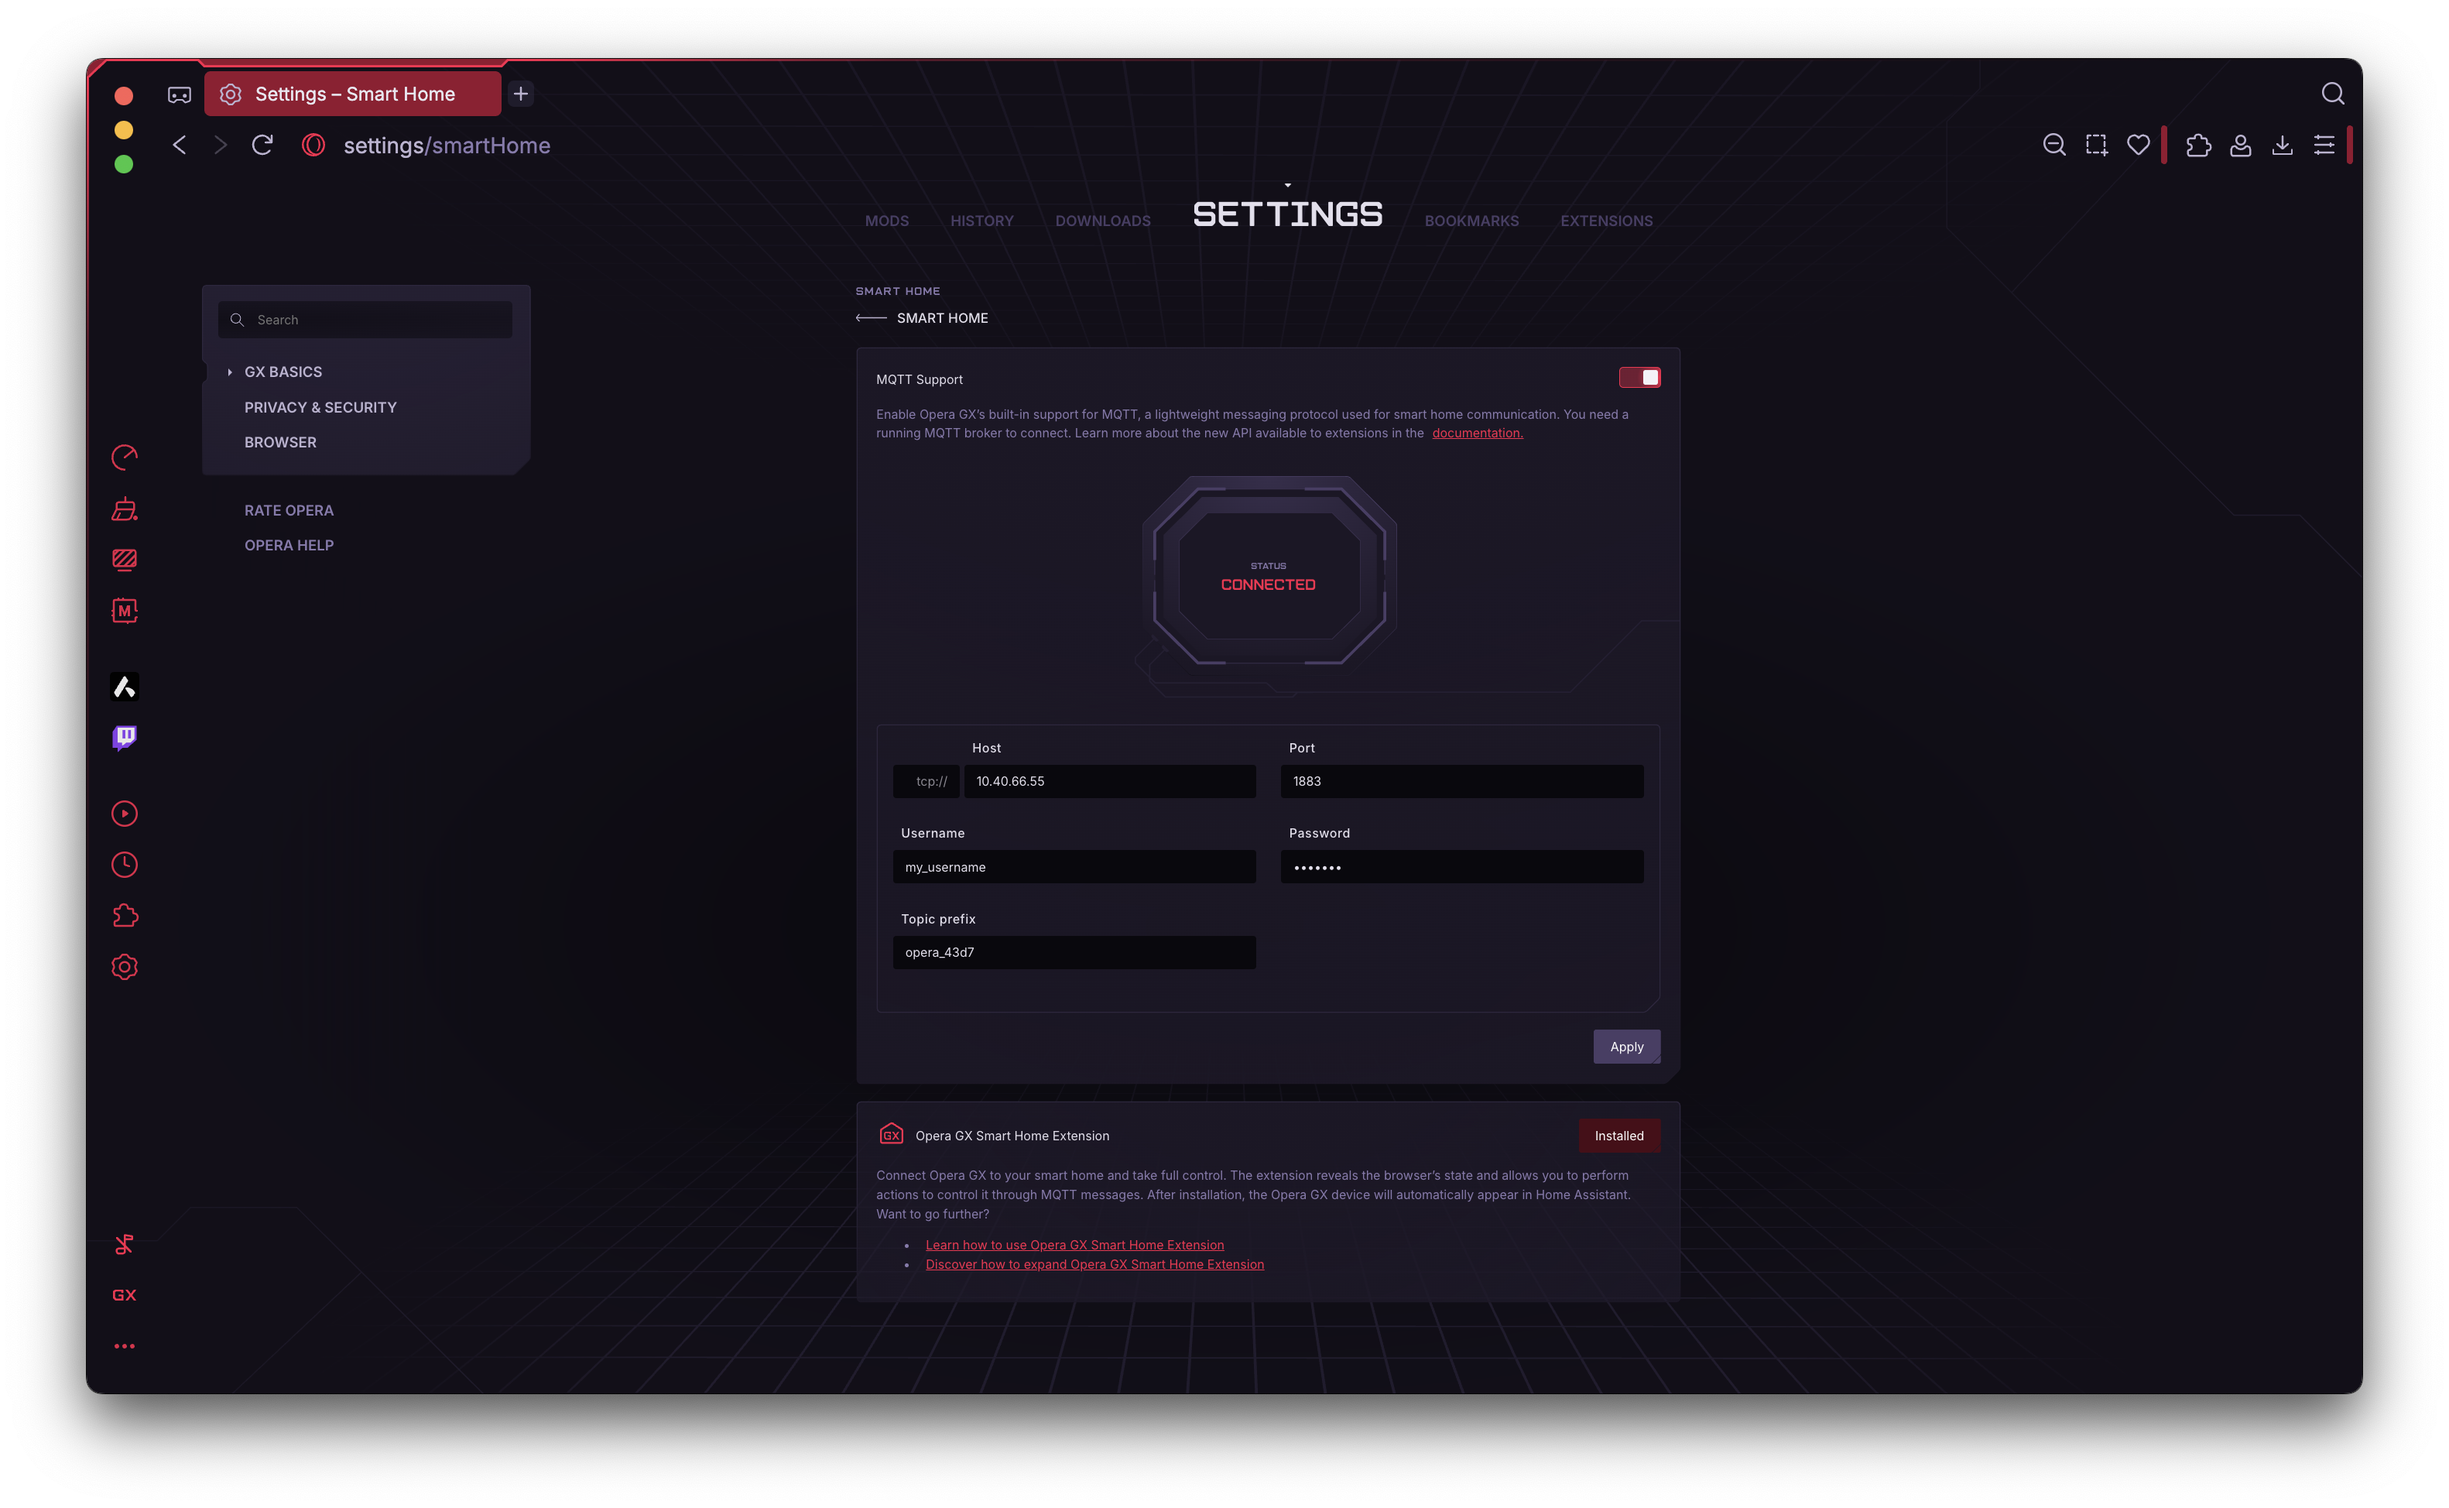
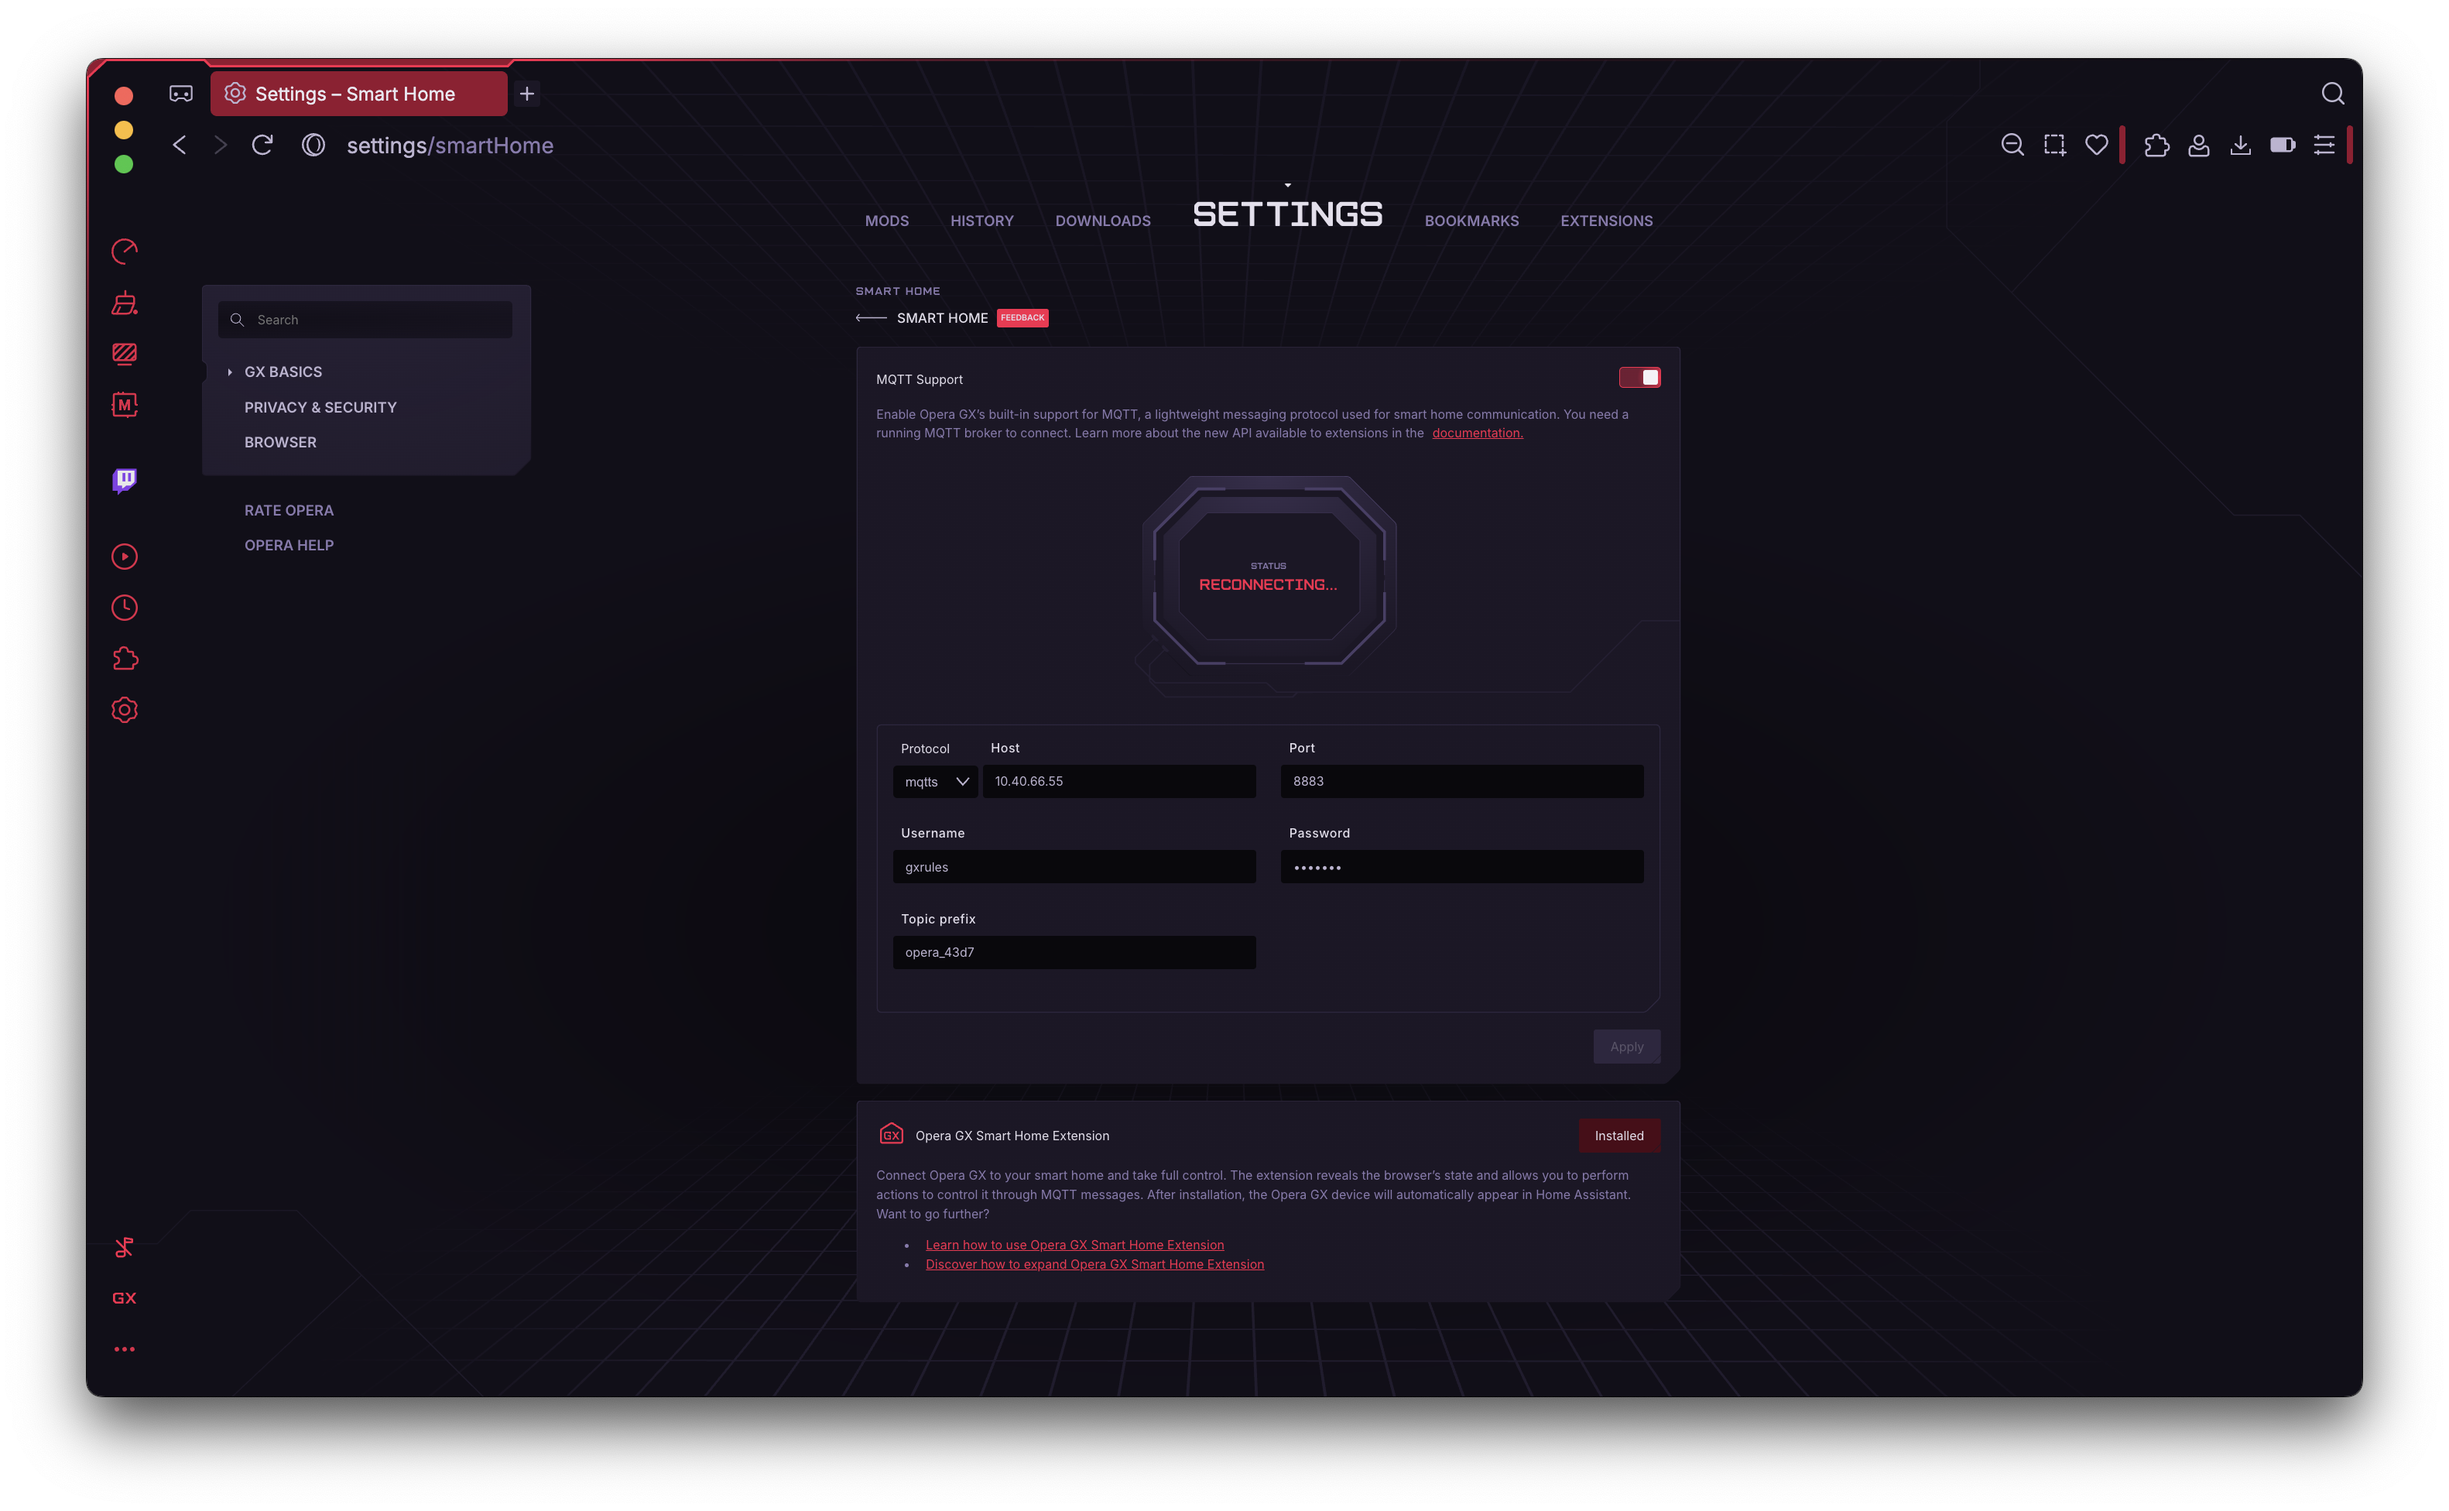
Added mqtts support.

diff --git a/README.md b/README.md
@@ -60,7 +60,9 @@ Again, if you're a **Home Assistant** user, the **Opera** device will pop up aut
 The solution is based on extensions utilizing a new [MQTT API](./api/README.md) which allows for making topic subscriptions and publishing messages to the MQTT Broker. Based on that the extensions can declare *sensors*, *switches*, *commands*, *triggers*, etc. (see [example](./example_extension/README.md)). The default [Opera GX Smart Home Extension](./opera_gx_smart_home_extension/README.md) is also utilizing the [Home Assistant MQTT Discovery](https://www.home-assistant.io/integrations/mqtt/#mqtt-discovery) protocol to announce the presense of those entities grouped into one device called Opera GX.
 
 ## Security concerns
-Since currently the browser doesn't support secure MQTT (SMQTT) connections, for security reasons, it's better avoid using the browser's MQTT support on untrusted networks like public Wi-Fi. Disabling this feature in your browser settings helps prevent potential attacks such as MQTT broker spoofing. This is especially important when using public internet access points.
+The browser supports both: MQTT and MQTTS (MQTT over TLS) connections. In order to connect via MQTTS, the server's certificate needs to be trusted (i.e. signed by a certificate trusted by Opera's build-in Root Store or by the OS). 
+
+In case of using the non-secure MQTT connection, please note that it's better to disable the MQTT support on untrusted networks like public Wi-Fi. Doing so will help prevent potential attacks such as MQTT broker spoofing. This is especially important when using public internet access points.
 
 ## How to set up new Smart Home
 Read more if want to install any of [MQTT supporting smart home platforms](./smart_home_setup.md).
